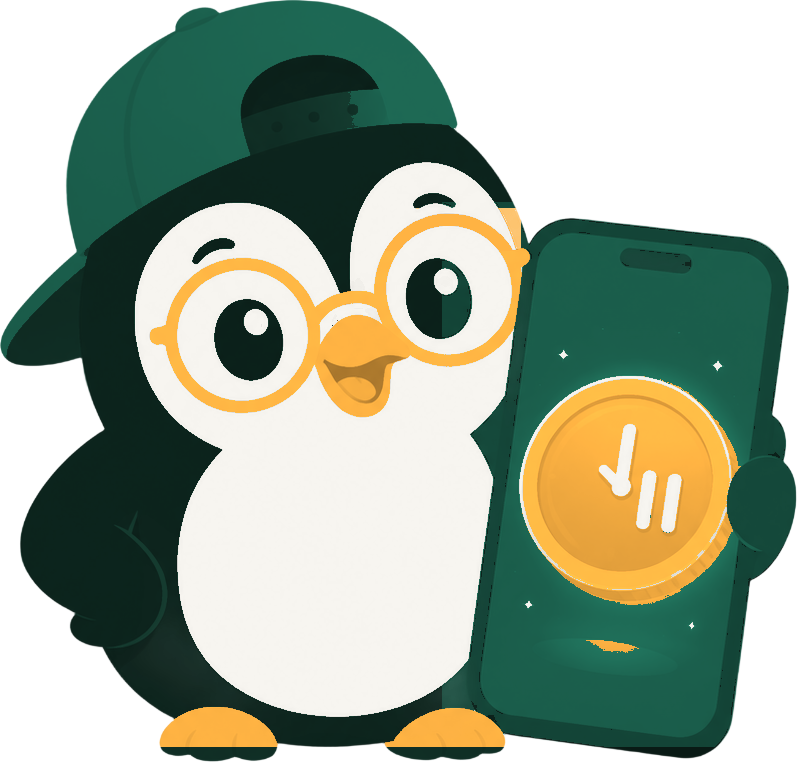
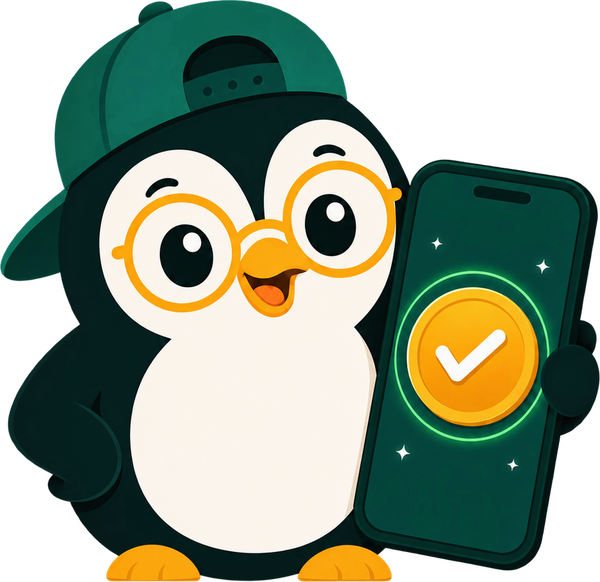
Adopt the approved final brand lockups
safini-media/latest/brand/final ships three approved lockups. Until now
every brand slot on the site was a small mascot image sitting next to the
word "Safini" typeset in Nunito - two different renderings of the brand
side by side. The horizontal lockup is one mark, so it replaces both.

- assets/safini-logo.png is now the horizontal lockup, used in the nav
  and footer on all three locales, the three legal pages, and the media
  kit's own nav and footer. The adjacent "Safini" text is gone from each
- assets/safini-logo-stacked.png is new, for centred and narrow use
- assets/safini-mascot.png is Fini alone, used on the CTA card where the
  heading already carries the name
- assets/safini-penguin.png is deleted; every slot it filled is now
  either a lockup or the mascot

The media kit's three asset cards become the three lockups rather than
three crops of the same file. The stacked card moved off the ink preview
because its wordmark is ink green and vanished against it.

The favicon's coin carried clock hands; it is a checkmark now, matching
the coin on Fini's phone in the new artwork.

og-image.png recomposited with the new mascot.

diff --git a/media-kit.html b/media-kit.html
@@ -153,6 +153,7 @@
   .shot-preview { background: var(--paper-2); padding: 22px; }
   .shot-preview img { display: block; width: 100%; height: auto; border-radius: 8px; }
 
+  .nav-brand .lockup, .mk-footer-brand .lockup { height: 38px; width: auto; border-radius: 0; }
   .asset-preview.light { background: white; }
   .asset-preview.dark  { background: var(--ink); }
   .asset-preview.pine { background: var(--pine); }
@@ -339,7 +340,7 @@
     font-family: var(--display); font-weight: 700; font-size: 18px;
     text-decoration: none; color: var(--ink);
   }
-  .mk-footer-brand img { width: 30px; height: 30px; border-radius: 8px; }
+  .mk-footer-brand .lockup { height: 38px; width: auto; border-radius: 0; }
   .mk-footer-links {
     display: flex; gap: 20px; flex-wrap: wrap;
   }
@@ -376,7 +377,7 @@
 <!-- NAV -->
 <nav class="nav">
   <a href="index.html" class="nav-brand">
-    <img src="assets/safini-penguin.png" alt="Safini" />Safini
+    <img class="lockup" src="assets/safini-logo.png" alt="Safini" />
   </a>
   <a href="index.html" class="nav-back">
     <svg viewBox="0 0 24 24" fill="none" stroke="currentColor" stroke-width="2.4" stroke-linecap="round" stroke-linejoin="round"><path d="M19 12H5M12 5l-7 7 7 7"/></svg>
@@ -399,27 +400,27 @@
     <div class="mk-section-head">
       <div class="section-tag">Brand assets</div>
       <h2>Logos &amp; Characters</h2>
-      <p>Use the version that works best on your background. Always use the original files — don't redraw or distort.</p>
+      <p>Horizontal is the primary lockup - use it wherever there is room. Stacked is for centred, narrow or social placements. Fini alone is for illustration, never as a substitute for the logo. Always use the original files; don't redraw or distort.</p>
     </div>
 
     <div class="asset-grid">
 
       <div class="asset-card">
         <div class="asset-preview checker">
-          <img src="assets/safini-penguin.png" alt="Safini Penguin Icon" />
+          <img src="assets/safini-mascot.png" alt="Fini, the Safini mascot" />
         </div>
         <div class="asset-info">
           <div class="asset-meta">
-            <div class="asset-name">Fini — App Icon</div>
+            <div class="asset-name">Fini — Mascot</div>
             <div class="asset-detail">PNG · Transparent</div>
           </div>
           <div class="asset-tags">
-            <span class="tag">Icon</span>
             <span class="tag">Mascot</span>
+            <span class="tag">Fini</span>
             <span class="tag">Transparent BG</span>
           </div>
           <div class="asset-downloads">
-            <a href="assets/safini-penguin.png" download="safini-fini-icon.png" class="btn-dl btn-dl-primary">
+            <a href="assets/safini-mascot.png" download="safini-fini.png" class="btn-dl btn-dl-primary">
               <svg viewBox="0 0 24 24" fill="none" stroke="currentColor" stroke-width="2.4" stroke-linecap="round" stroke-linejoin="round"><path d="M12 3v12M8 11l4 4 4-4M3 17v3a1 1 0 001 1h16a1 1 0 001-1v-3"/></svg>
               Download PNG
             </a>
@@ -433,16 +434,16 @@
         </div>
         <div class="asset-info">
           <div class="asset-meta">
-            <div class="asset-name">Safini Logo — Light</div>
-            <div class="asset-detail">PNG · Light background</div>
+            <div class="asset-name">Logo — Horizontal</div>
+            <div class="asset-detail">PNG · Transparent · 2400×900</div>
           </div>
           <div class="asset-tags">
             <span class="tag">Logo</span>
-            <span class="tag">Wordmark</span>
-            <span class="tag">Light BG</span>
+            <span class="tag">Horizontal</span>
+            <span class="tag">Primary</span>
           </div>
           <div class="asset-downloads">
-            <a href="assets/safini-logo.png" download="safini-logo-light.png" class="btn-dl btn-dl-primary">
+            <a href="assets/safini-logo.png" download="safini-logo-horizontal.png" class="btn-dl btn-dl-primary">
               <svg viewBox="0 0 24 24" fill="none" stroke="currentColor" stroke-width="2.4" stroke-linecap="round" stroke-linejoin="round"><path d="M12 3v12M8 11l4 4 4-4M3 17v3a1 1 0 001 1h16a1 1 0 001-1v-3"/></svg>
               Download PNG
             </a>
@@ -451,21 +452,21 @@
       </div>
 
       <div class="asset-card">
-        <div class="asset-preview dark">
-          <img src="assets/safini-mascot.png" alt="Safini Mascot" style="filter: drop-shadow(0 12px 24px rgba(0,0,0,0.4));" />
+        <div class="asset-preview checker">
+          <img src="assets/safini-logo-stacked.png" alt="Safini stacked logo" />
         </div>
         <div class="asset-info">
           <div class="asset-meta">
-            <div class="asset-name">Fini — Full Mascot</div>
+            <div class="asset-name">Logo — Stacked</div>
             <div class="asset-detail">PNG · Transparent</div>
           </div>
           <div class="asset-tags">
-            <span class="tag">Mascot</span>
-            <span class="tag">Full Body</span>
+            <span class="tag">Logo</span>
+            <span class="tag">Stacked</span>
             <span class="tag">Transparent BG</span>
           </div>
           <div class="asset-downloads">
-            <a href="assets/safini-mascot.png" download="safini-mascot-full.png" class="btn-dl btn-dl-primary">
+            <a href="assets/safini-logo-stacked.png" download="safini-logo-stacked.png" class="btn-dl btn-dl-primary">
               <svg viewBox="0 0 24 24" fill="none" stroke="currentColor" stroke-width="2.4" stroke-linecap="round" stroke-linejoin="round"><path d="M12 3v12M8 11l4 4 4-4M3 17v3a1 1 0 001 1h16a1 1 0 001-1v-3"/></svg>
               Download PNG
             </a>
@@ -702,8 +703,7 @@
   <div class="container">
     <div class="mk-footer">
       <a href="index.html" class="mk-footer-brand">
-        <img src="assets/safini-penguin.png" alt="Safini" />
-        Safini
+        <img class="lockup" src="assets/safini-logo.png" alt="Safini" />
       </a>
       <div class="mk-footer-links">
         <a href="index.html">Back to site</a>

diff --git a/ru/index.html b/ru/index.html
@@ -33,7 +33,7 @@
 <!-- ===================== NAV ===================== -->
 <div class="topband">
 <nav class="nav" data-screen-label="nav">
-  <a class="nav-brand" href="#top"><img src="../assets/safini-penguin.png" alt="Safini" />Safini</a>
+  <a class="nav-brand" href="#top"><img class="lockup" src="../assets/safini-logo.png" alt="Safini" /></a>
   <div class="nav-links">
     <a href="#loop">Как это работает</a>
     <a href="#prices">Time Coins</a>
@@ -277,7 +277,7 @@
 <section class="cta" id="join" data-screen-label="cta">
   <div class="wrap">
     <div class="cta-card">
-      <img src="../assets/safini-penguin.png" alt="" />
+      <img src="../assets/safini-mascot.png" alt="" />
       <h2>Станьте одной из первых 500 семей.</h2>
       <p>146 родителей уже в листе. Мы приглашаем небольшими группами и фиксируем стартовую цену для всех, кто записался сейчас.</p>
       <form class="joinform" id="cta-join" data-msg-target="cta-msg">
@@ -295,7 +295,7 @@
   <div class="wrap">
     <div class="foot-grid">
       <div>
-        <div class="foot-brand"><img src="../assets/safini-penguin.png" alt="" />Safini</div>
+        <div class="foot-brand"><img class="lockup" src="../assets/safini-logo.png" alt="Safini" /></div>
         <p class="foot-tag">Дети зарабатывают своё экранное время. Запуск осенью 2026.</p>
       </div>
       <div>

diff --git a/uz/index.html b/uz/index.html
@@ -33,7 +33,7 @@
 <!-- ===================== NAV ===================== -->
 <div class="topband">
 <nav class="nav" data-screen-label="nav">
-  <a class="nav-brand" href="#top"><img src="../assets/safini-penguin.png" alt="Safini" />Safini</a>
+  <a class="nav-brand" href="#top"><img class="lockup" src="../assets/safini-logo.png" alt="Safini" /></a>
   <div class="nav-links">
     <a href="#loop">Qanday ishlaydi</a>
     <a href="#prices">Time Coins</a>
@@ -277,7 +277,7 @@
 <section class="cta" id="join" data-screen-label="cta">
   <div class="wrap">
     <div class="cta-card">
-      <img src="../assets/safini-penguin.png" alt="" />
+      <img src="../assets/safini-mascot.png" alt="" />
       <h2>Birinchi 500 oiladan biri bo'ling.</h2>
       <p>146 ota-ona allaqachon ro'yxatda. Biz kichik guruhlarda taklif qilamiz va hozir yozilganlarning barchasi uchun ishga tushirish narxini saqlab qolamiz.</p>
       <form class="joinform" id="cta-join" data-msg-target="cta-msg">
@@ -295,7 +295,7 @@
   <div class="wrap">
     <div class="foot-grid">
       <div>
-        <div class="foot-brand"><img src="../assets/safini-penguin.png" alt="" />Safini</div>
+        <div class="foot-brand"><img class="lockup" src="../assets/safini-logo.png" alt="Safini" /></div>
         <p class="foot-tag">Bolalar ekran vaqtini o'zlari ishlab topadi. 2026-yil kuzida ishga tushamiz.</p>
       </div>
       <div>

diff --git a/index.html b/index.html
@@ -33,7 +33,7 @@
 <!-- ===================== NAV ===================== -->
 <div class="topband">
 <nav class="nav" data-screen-label="nav">
-  <a class="nav-brand" href="#top"><img src="assets/safini-penguin.png" alt="Safini" />Safini</a>
+  <a class="nav-brand" href="#top"><img class="lockup" src="assets/safini-logo.png" alt="Safini" /></a>
   <div class="nav-links">
     <a href="#loop">The loop</a>
     <a href="#prices">Time Coins</a>
@@ -277,7 +277,7 @@
 <section class="cta" id="join" data-screen-label="cta">
   <div class="wrap">
     <div class="cta-card">
-      <img src="assets/safini-penguin.png" alt="" />
+      <img src="assets/safini-mascot.png" alt="" />
       <h2>Be one of the first 500 families.</h2>
       <p>146 parents are already on the list. We invite in small groups and set the launch price for everyone who joins now.</p>
       <form class="joinform" id="cta-join" data-msg-target="cta-msg">
@@ -295,7 +295,7 @@
   <div class="wrap">
     <div class="foot-grid">
       <div>
-        <div class="foot-brand"><img src="assets/safini-penguin.png" alt="" />Safini</div>
+        <div class="foot-brand"><img class="lockup" src="assets/safini-logo.png" alt="Safini" /></div>
         <p class="foot-tag">Kids earn their screen time. Launching in Fall 2026.</p>
       </div>
       <div>

diff --git a/assets/v4.css b/assets/v4.css
@@ -110,7 +110,7 @@ a:hover { color: var(--pine-deep); }
   font-weight: 700; font-size: 20px; letter-spacing: -0.01em;
   color: var(--ink);
 }
-.nav-brand img { width: 30px; height: 30px; border-radius: 9px; }
+.nav-brand .lockup { height: 38px; width: auto; border-radius: 0; }
 .nav-links { display: flex; gap: 24px; font-size: 14px; font-weight: 600; }
 .nav-links a { color: var(--ink); opacity: 0.72; }
 .nav-links a:hover { opacity: 1; color: var(--pine); }
@@ -585,7 +585,7 @@ footer { padding: 52px 0 30px; border-top: 1px solid var(--line); }
   font-size: 22px; font-weight: 700;
   display: flex; align-items: center; gap: 10px;
 }
-.foot-brand img { width: 34px; height: 34px; border-radius: 10px; }
+.foot-brand .lockup { height: 42px; width: auto; border-radius: 0; }
 .foot-tag {
   font-size: 14px; font-weight: 500; margin: 12px 0 0;
   color: color-mix(in oklab, var(--ink) 65%, transparent);

diff --git a/delete-account.html b/delete-account.html
@@ -16,7 +16,7 @@
   <header class="site-header">
     <div class="header-inner">
       <div class="brand-row">
-        <a class="brand" href="/"><img src="/assets/safini-penguin.png" alt="" />Safini</a>
+        <a class="brand" href="/"><img class="lockup" src="/assets/safini-logo.png" alt="Safini" /></a>
         <a class="back-link" href="/">← Back to homepage</a>
       </div>
       <div class="hero-copy">

diff --git a/privacy-policy.html b/privacy-policy.html
@@ -16,7 +16,7 @@
   <header class="site-header">
     <div class="header-inner">
       <div class="brand-row">
-        <a class="brand" href="/"><img src="/assets/safini-penguin.png" alt="" />Safini</a>
+        <a class="brand" href="/"><img class="lockup" src="/assets/safini-logo.png" alt="Safini" /></a>
         <a class="back-link" href="/">← Back to homepage</a>
       </div>
       <div class="hero-copy">

diff --git a/terms-of-service.html b/terms-of-service.html
@@ -16,7 +16,7 @@
   <header class="site-header">
     <div class="header-inner">
       <div class="brand-row">
-        <a class="brand" href="/"><img src="/assets/safini-penguin.png" alt="" />Safini</a>
+        <a class="brand" href="/"><img class="lockup" src="/assets/safini-logo.png" alt="Safini" /></a>
         <a class="back-link" href="/">← Back to homepage</a>
       </div>
       <div class="hero-copy">

diff --git a/legal.css b/legal.css
@@ -66,7 +66,7 @@ a:hover { color: var(--pine); }
   font-size: 22px;
   font-weight: 900;
 }
-.brand img { width: 38px; height: 38px; border-radius: 11px; }
+.brand .lockup { height: 40px; width: auto; border-radius: 0; }
 .back-link {
   color: rgba(255, 255, 255, 0.88);
   font-size: 14px;
